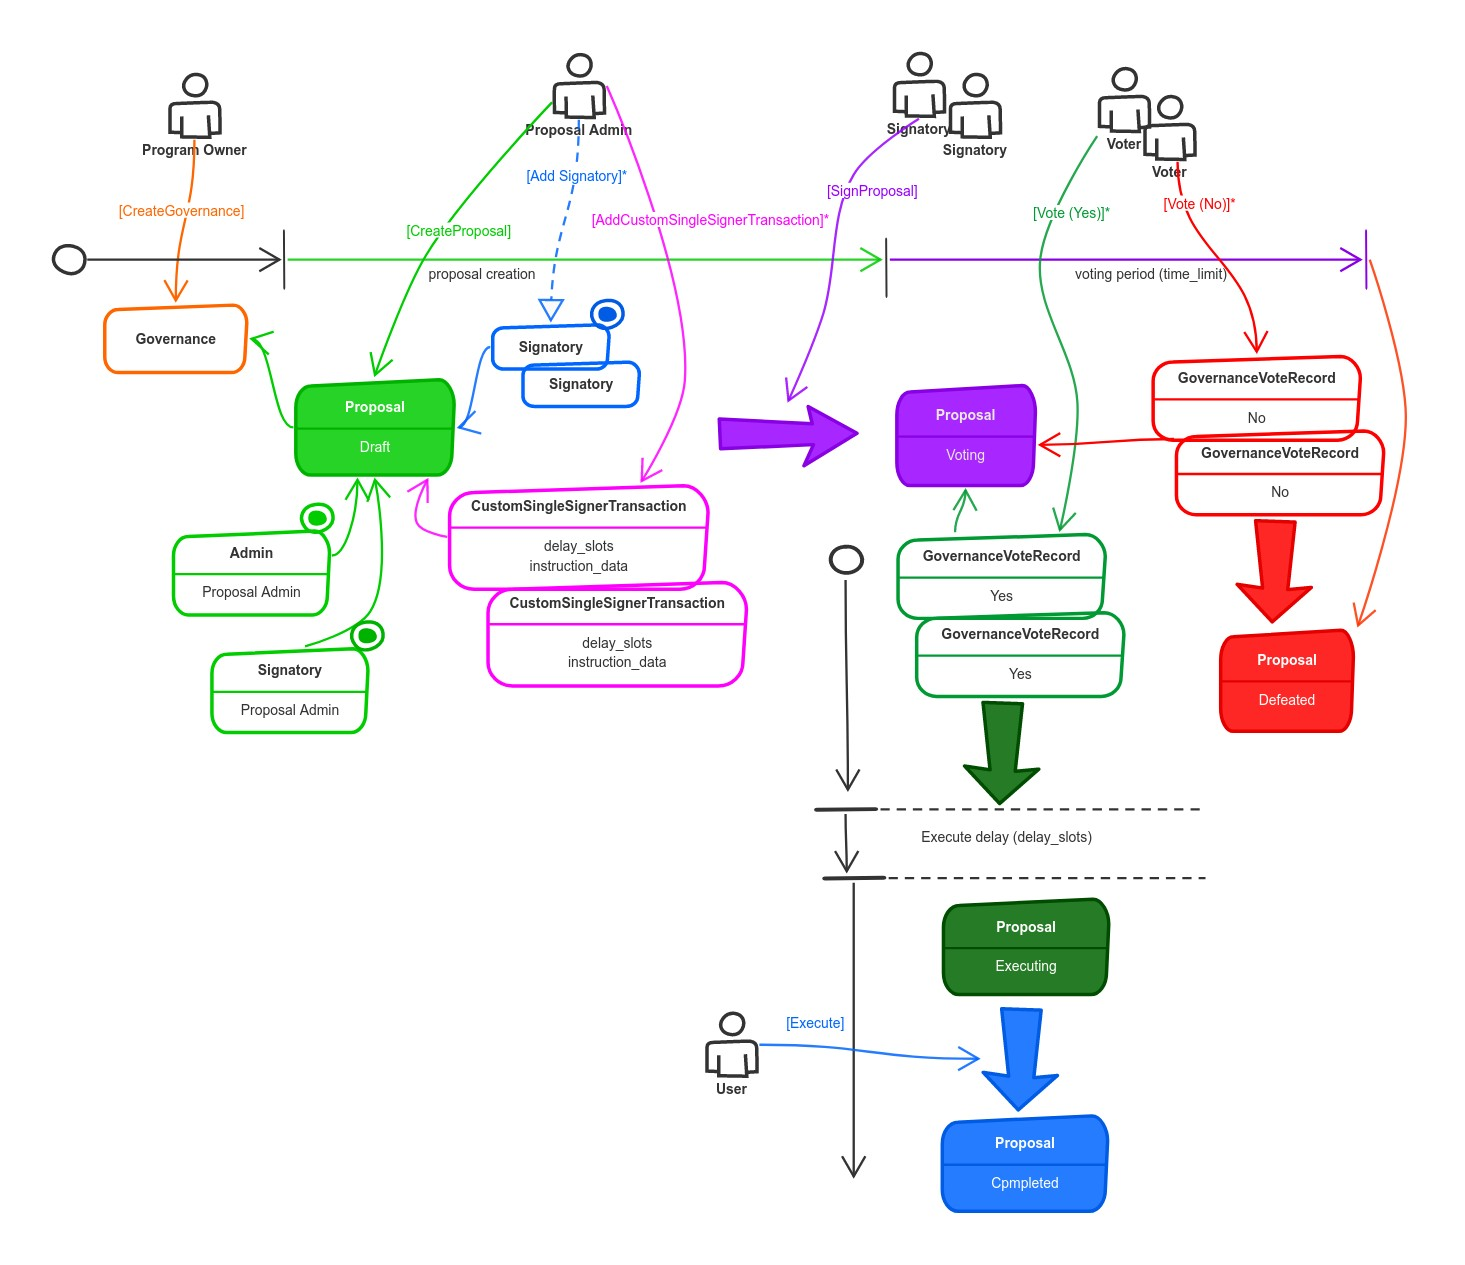
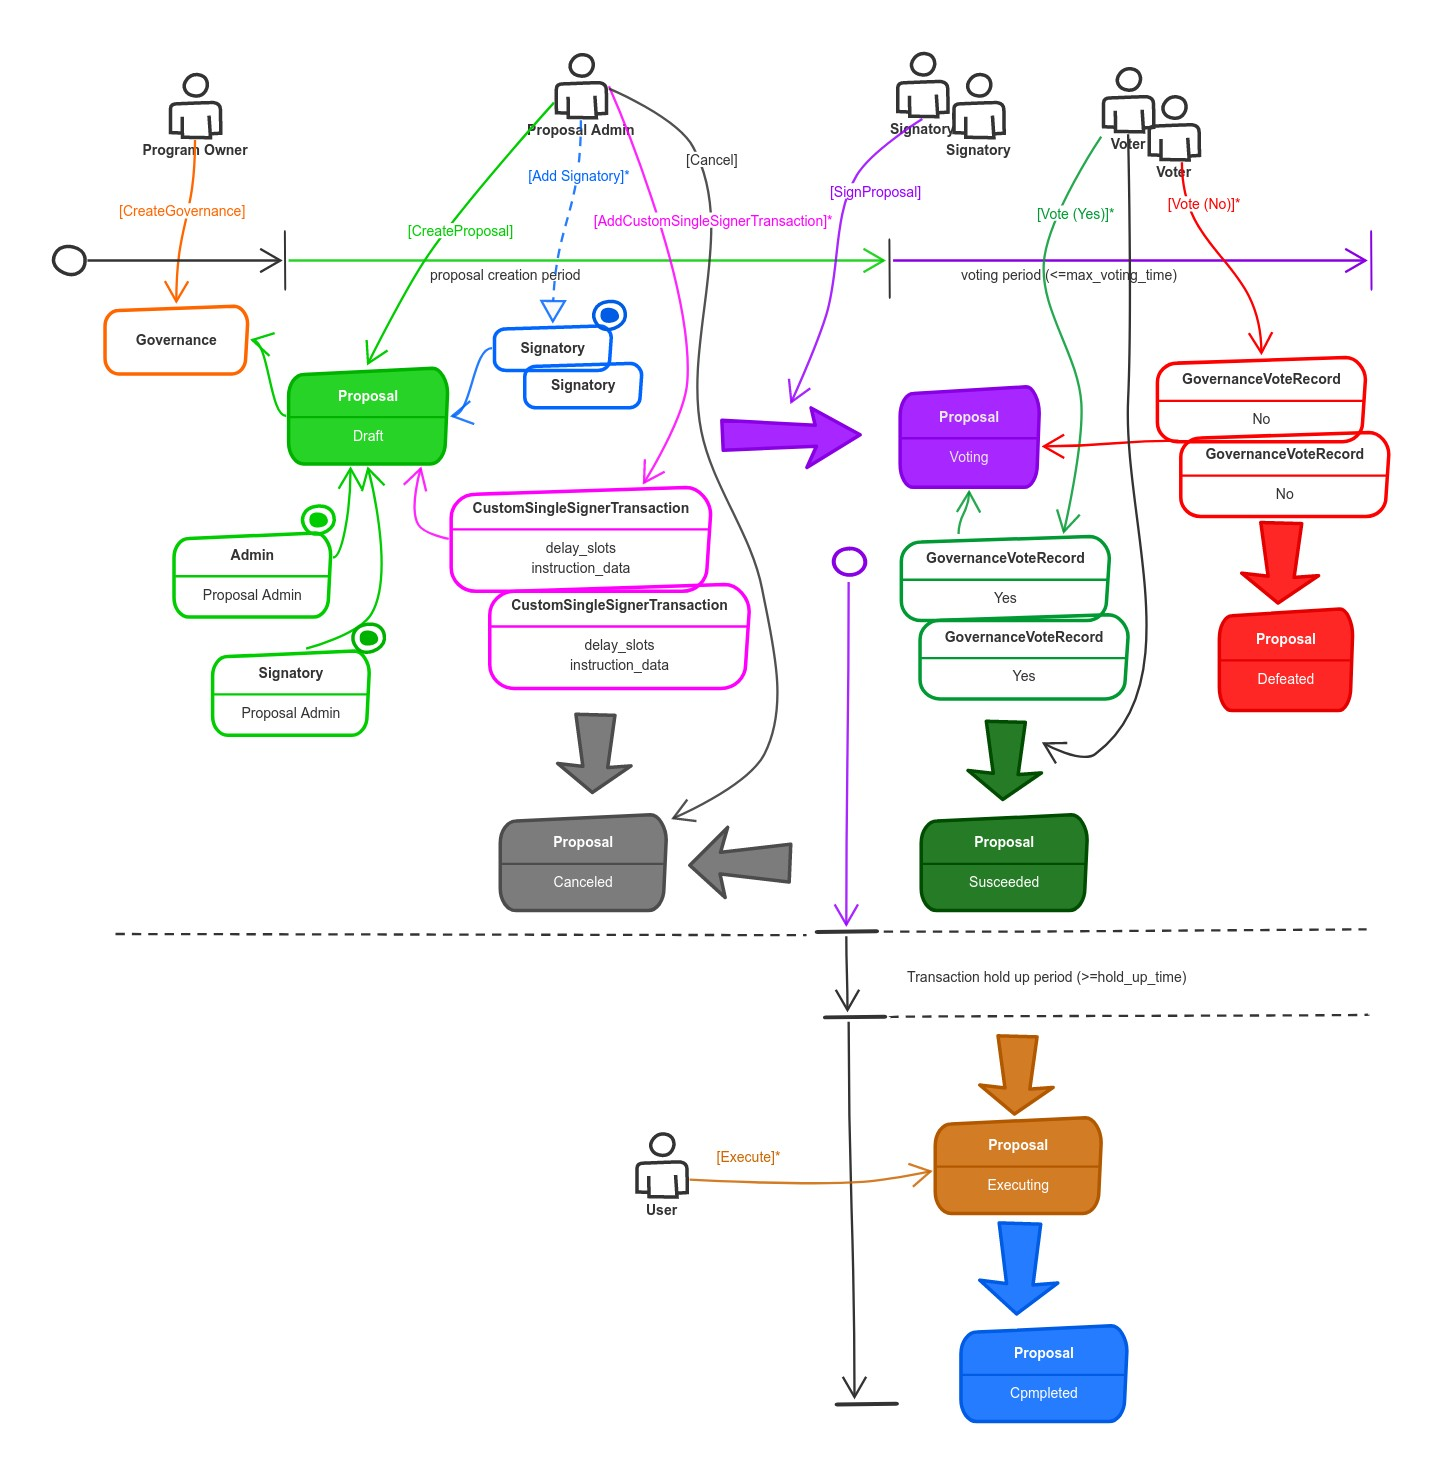
fix: update transaction hold_up_time

Changed region(s): [[0.0312, 0.0308, 0.9674, 0.9866]]

diff --git a/governance/program/src/instruction.rs b/governance/program/src/instruction.rs
@@ -28,7 +28,7 @@ pub enum GovernanceInstruction {
         vote_threshold: u8,
 
         /// Minimum waiting time in slots for a transaction to be executed after proposal is voted on
-        min_transaction_cool_off_time: u64,
+        min_transaction_hold_up_time: u64,
 
         /// Time limit in slots for proposal to be open for voting
         max_voting_time: u64,
@@ -106,7 +106,7 @@ pub enum GovernanceInstruction {
     ///   7. `[]` Governance program account
     AddCustomSingleSignerTransaction {
         /// Slot waiting time between vote period ending and this being eligible for execution
-        cool_off_tine: u64,
+        hold_up_time: u64,
         /// Instruction
         instruction: [u8; MAX_PROPOSAL_INSTRUCTION_DATA_LENGTH],
         /// Position in transaction array
@@ -135,9 +135,9 @@ pub enum GovernanceInstruction {
     ///   3. `[]` Proposal account
     ///   4. `[]` Transfer authority
     ///   5. `[]` Proposal Authority account. PDA with seeds: ['governance',proposal_key]
-    UpdateTransactionCoolOffTime {
+    UpdateTransactionHoldUpTime {
         /// Minimum waiting time in slots for a transaction to be executed after proposal is voted on
-        cool_off_time: u64,
+        hold_up_time: u64,
     },
 
     /// [Requires Admin token]

diff --git a/governance/program/src/state.rs b/governance/program/src/state.rs
@@ -73,7 +73,7 @@ pub struct Governance {
     pub token_threshold_to_create_proposal: u8,
 
     /// Minimum waiting time in slots for a transaction to be executed after proposal is voted on
-    pub min_transaction_cool_off_time: u64,
+    pub min_transaction_hold_up_time: u64,
 
     /// Governance mint
     pub governance_mint: Pubkey,
@@ -173,10 +173,13 @@ pub enum ProposalStateStatus {
     /// Taking votes
     Voting,
 
-    /// Votes complete, in execution phase
+    /// Voting ended with success 
+    Succeeded 
+
+    /// Votes completed and after cool oof period and transactions are being executed
     Executing,
 
-    /// Completed, can be rebooted
+    /// Completed
     Completed,
 
     /// Cancelled
@@ -215,7 +218,7 @@ pub struct CustomSingleSignerTransaction {
     pub account_type: GovernanceAccountType,
 
     /// Minimum waiting time in slots for a transaction to be executed after proposal is voted on
-    pub cool_off_time: u64,
+    pub hold_up_time: u64,
 
     /// Instruction data
     pub instruction: [u8; MAX_PROPOSAL_INSTRUCTION_DATA_LENGTH],
